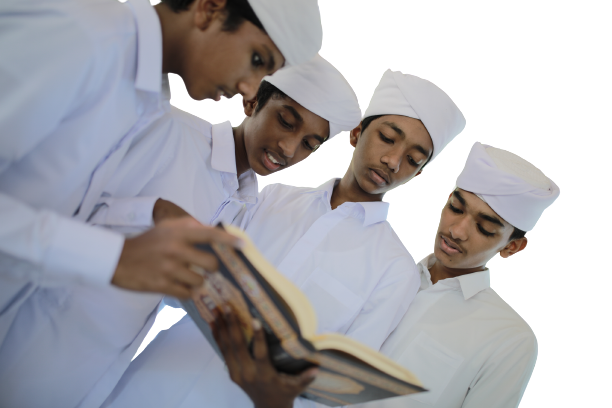
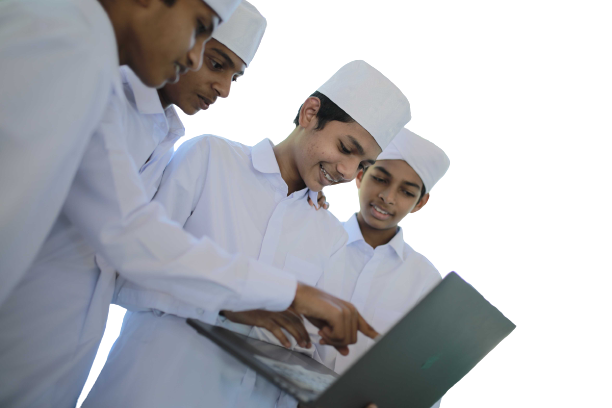
update

diff --git a/index.html b/index.html
@@ -75,15 +75,15 @@
     <div class="container">
       <div class="row">
         <div class="col-lg-6 pt-5 pt-lg-0 order-2 order-lg-1 d-flex flex-column justify-content-center">
-          <h1 data-aos="fade-up">BEST of you are those who LEARN <br> & teach QURAN</h1>
-          <h2 data-aos="fade-up" data-aos-delay="400">Whether your children are eager to memorize the Holy Quran, <b>Erbadiyya Academy</b> is the right
-            place for you</h2>
+          <h1 data-aos="fade-up">BEST of you are those who learn <br> & teach QURAN</h1>
+          <h2 data-aos="fade-up" data-aos-delay="400"><b>Erbadiyya Academy</b> is the right
+            place for your children to memorize the Holy Quran. </h2> 
           <div data-aos="fade-up" data-aos-delay="800">
             <a href="https://forms.gle/2LwF3QC6qFrvgQQc6" class="btn-get-started scrollto">Register Now</a>
           </div>
         </div>
         <div class="col-lg-6 order-1 order-lg-2 hero-img" data-aos="fade-left" data-aos-delay="200">
-          <img src="assets/img/112.jpg" class="img-fluid animated landing" alt="" />
+          <img src="assets/img/112.png" class="img-fluid animated landing" alt="" />
         </div>
       </div>
     </div>
@@ -167,7 +167,7 @@
                   <div class="count-box">
                     <i class="bi bi-award"></i>
                     <span data-purecounter-start="0" data-purecounter-end="2" data-purecounter-duration="1" class="purecounter"></span>
-                    <p><strong>Decades of religious foundation</strong> </p>
+                    <p><strong>Decades of religious leadership</strong> </p>
                   </div>
                 </div>
               </div>
@@ -344,12 +344,12 @@
 
           <div class="col-lg-4 col-md-6 portfolio-item filter-swalath">
             <div class="portfolio-wrap">
-              <img src="assets/img/portfolio/m1.JPG" class="img-fluid" alt="">
+              <img src="assets/img/portfolio/m4.JPG" class="img-fluid" alt="">
               <div class="portfolio-info">
                 <h4>Swalath 2</h4>
                 <p>Swalath</p>
                 <div class="portfolio-links">
-                  <a href="assets/img/portfolio/m1.JPG" data-gallery="portfolioGallery" class="portfolio-lightbox" title="swalath 2"><i class="bx bx-plus"></i></a>
+                  <a href="assets/img/portfolio/m4.JPG" data-gallery="portfolioGallery" class="portfolio-lightbox" title="swalath 2"><i class="bx bx-plus"></i></a>
                   <a href="portfolio-details.html" title="More Details"><i class="bx bx-link"></i></a>
                 </div>
               </div>
